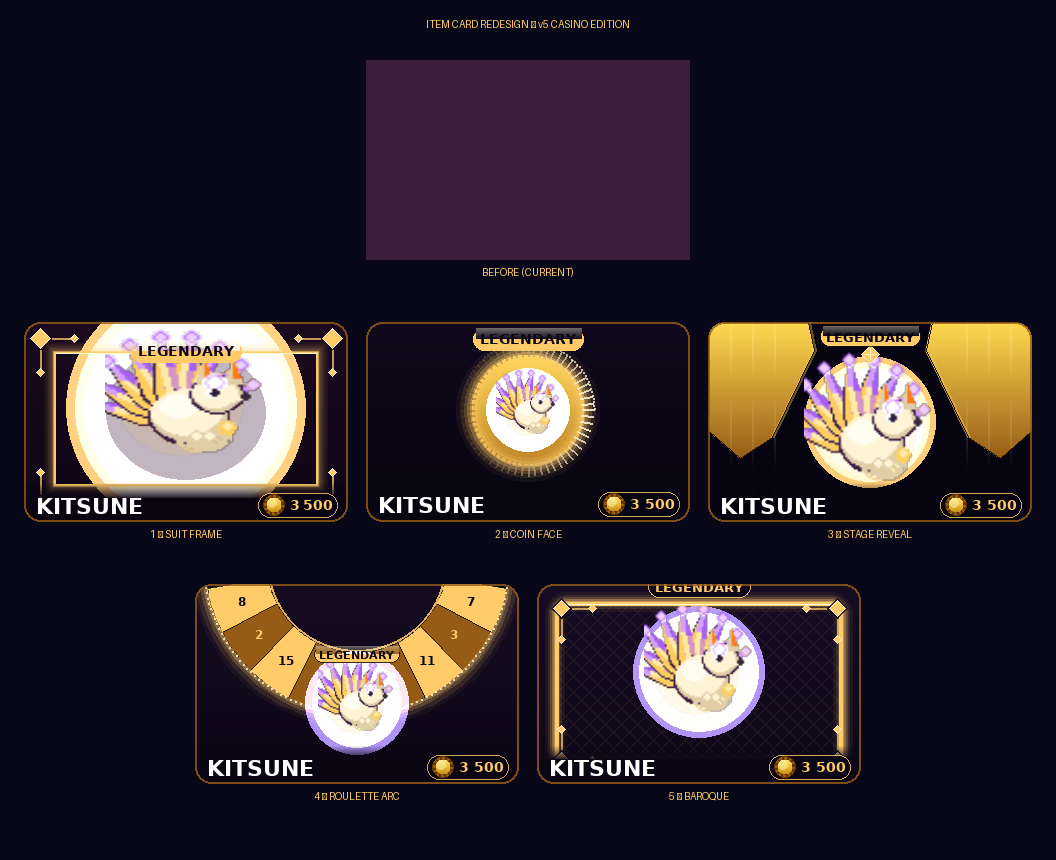
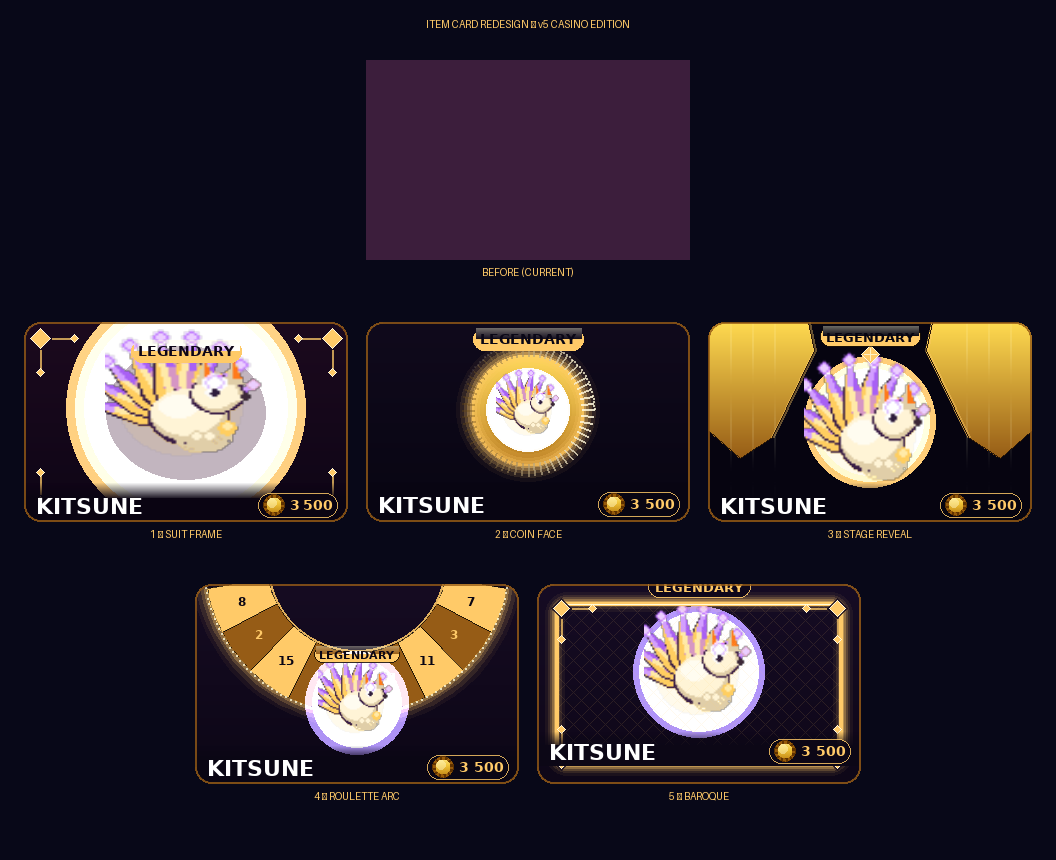
Revise suit-frame and baroque card layouts
Design 1 (Suit Frame): remove inner rectangle border, keep only corner
ornament decorations (diamond pips + arm lines).

Design 5 (Baroque): move name + price nameplate inside the frame, sitting
above the bottom border line rather than in a separate footer strip.

Changed region(s): [[0.0312, 0.393, 0.3125, 0.5744], [0.5, 0.8465, 0.8125, 0.907]]

diff --git a/tools/render_suit_frame_v5_r2.py b/tools/render_suit_frame_v5_r2.py
@@ -51,19 +51,10 @@ PIP_R   = 10
 CI      = 16    # tighter corner inset — pips closer to card edge
 FOOTER_H = 32
 
-# ── Inner border: overlays the art ────────────────────────────────────────────
-INSET = CI + PIP_R + 4   # tighter than r1 — border closer in, art has more room
+# Keep variables for pill positioning (inner border removed — corner ornaments only)
+INSET = CI + PIP_R + 4
 IBX, IBY = INSET, INSET
 IBW, IBH = W - INSET * 2, H - INSET - FOOTER_H - 4
-
-# 6-layer feathered glow expanding outward from border
-for extra, alpha in [(10, 12), (8, 24), (6, 42), (4, 65), (2, 95), (1, 140)]:
-    gs = pygame.Surface((W, H), pygame.SRCALPHA)
-    pygame.draw.rect(gs, (*GEM, alpha),
-                     (IBX - extra, IBY - extra, IBW + extra * 2, IBH + extra * 2), 2)
-    card.blit(gs, (0, 0))
-pygame.draw.rect(card, GEM, (IBX, IBY, IBW, IBH), 2)
-pygame.draw.line(card, (255, 252, 220), (IBX + 2, IBY + 1), (IBX + IBW - 2, IBY + 1), 1)
 
 # ── Corner ornaments overlay the art and border ───────────────────────────────
 ARM_LEN = 22

diff --git a/tools/render_baroque_v5_r2.py b/tools/render_baroque_v5_r2.py
@@ -129,15 +129,16 @@ for yy in range(PH // 3):
 card.blit(pill_surf, (pill_x, pill_y))
 card.blit(tier_s, (pill_x + PP, pill_y + 3))
 
-# ── Footer: dark strip, name + price chip ──────────────────────────────────────
-FOOTER_H = 32
-band_y = H - FOOTER_H
+# ── Nameplate: inside frame, above bottom border line ─────────────────────────
+INNER_BOT = H - BDR_INSET          # = 182 (inner face of bottom border)
+FOOTER_H  = 28
+band_y    = INNER_BOT - FOOTER_H   # = 154
 for i in range(14):
-    a = int(i / 14 * 230)
+    a = int(i / 14 * 210)
     s = pygame.Surface((W, 1), pygame.SRCALPHA)
     s.fill((12, 7, 22, a))
     card.blit(s, (0, band_y + i - 7))
-pygame.draw.rect(card, (12, 7, 22), (0, band_y + 7, W, FOOTER_H))
+pygame.draw.rect(card, (12, 7, 22), (0, band_y + 7, W, INNER_BOT - band_y - 7))
 
 fnt_name  = pygame.font.SysFont("DejaVu Sans", 22, bold=True)
 fnt_price = pygame.font.SysFont("DejaVu Sans", 14, bold=True)
